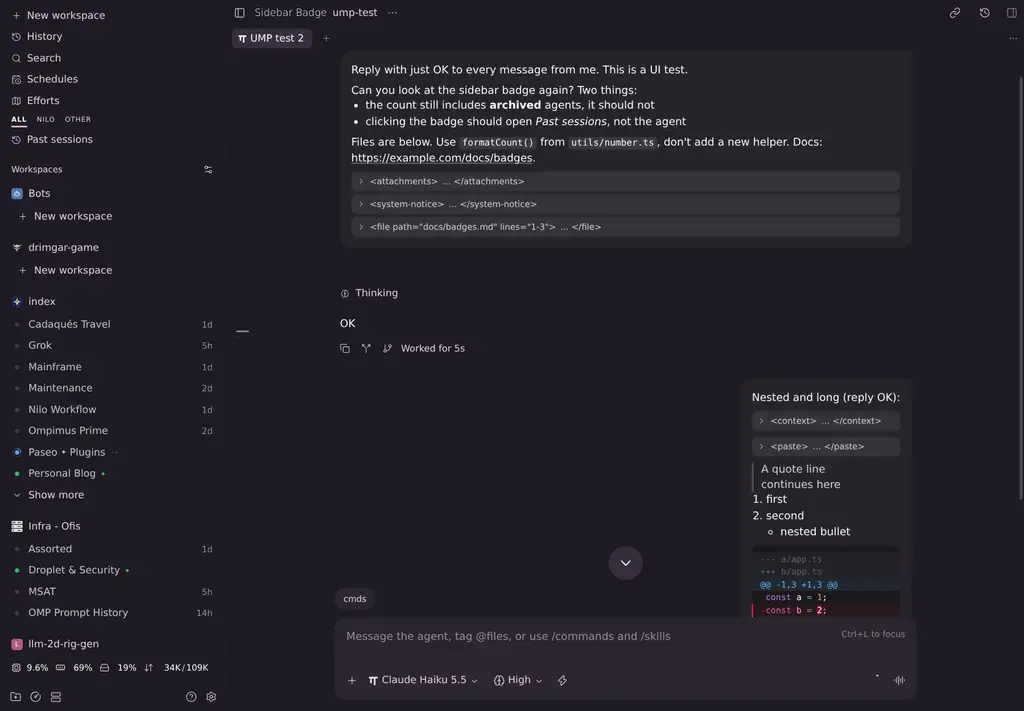
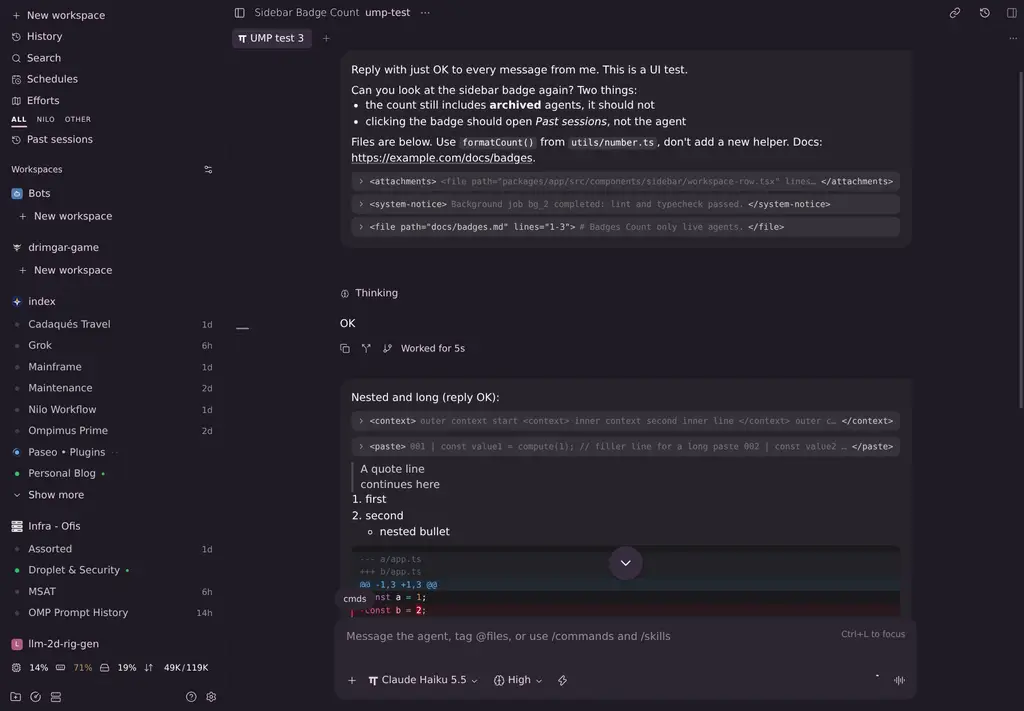
user-message-polish: one-line muted content preview between the folded tags
Folded rows read '› <tag attrs> first content… </tag>'. Tags keep their
full text first; the preview takes the room left and is cut with an
ellipsis. Rows now carry data-pmono, so Paseo's app font no longer
replaces their monospace.

diff --git a/paseo-plugins/user-message-polish/client/web.ts b/paseo-plugins/user-message-polish/client/web.ts
@@ -208,10 +208,11 @@ function renderFold(fold: Extract<Segment, { kind: "fold" }>, startOpen: boolean
   const path = document.createElementNS("http://www.w3.org/2000/svg", "path");
   path.setAttribute("d", CHEVRON);
   chevron.append(path);
-  const head = el("div", { class: "ump-head", role: "button", tabindex: "0", "data-paseo-markdown-ignore": "true" }, [
+  const head = el("div", { class: "ump-head", role: "button", tabindex: "0", "data-paseo-markdown-ignore": "true", "data-pmono": "" }, [
     chevron,
     el("span", { class: "ump-open" }, [fold.open]),
-    el("span", { class: "ump-shut" }, [`… ${fold.close}`]),
+    el("span", { class: "ump-peek" }, [fold.body.replace(/\s+/g, " ").trim().slice(0, 300)]),
+    el("span", { class: "ump-shut" }, [fold.close]),
   ]);
   head.title = fold.open;
   const box = el("div", { class: "ump-fold" }, [head]);
@@ -219,7 +220,7 @@ function renderFold(fold: Extract<Segment, { kind: "fold" }>, startOpen: boolean
     box.toggleAttribute("data-open", open);
     head.setAttribute("aria-expanded", String(open));
     if (open && box.childNodes.length === 1) {
-      const foot = el("div", { class: "ump-head ump-foot", "data-paseo-markdown-ignore": "true" }, [fold.close]);
+      const foot = el("div", { class: "ump-head ump-foot", "data-paseo-markdown-ignore": "true", "data-pmono": "" }, [fold.close]);
       foot.addEventListener("click", toggle);
       box.append(el("div", { class: "ump-body", "data-pmono": "" }, [fold.body]), foot);
     }
@@ -265,12 +266,17 @@ const CSS = `
 .ump-head:focus-visible { outline: 1px solid ${MIX(45)}; outline-offset: -1px; border-radius: 8px; }
 .ump-chev { width: 12px; height: 12px; flex: none; fill: none; stroke: ${MIX(52)}; stroke-width: 2; stroke-linecap: round; stroke-linejoin: round; transition: transform 120ms ease; }
 .ump-fold[data-open] .ump-chev { transform: rotate(90deg); stroke: currentColor; }
-/* One clamped line instead of nowrap: a long opening tag still sizes a wide bubble, but can't
-   force the bubble wider than a narrow window (nowrap text can't shrink below its full width). */
-.ump-open { min-width: 0; display: -webkit-box; -webkit-box-orient: vertical; -webkit-line-clamp: 1; overflow: hidden; white-space: normal; overflow-wrap: anywhere; }
+/* One clamped line instead of nowrap: long text still sizes a wide bubble, but can't force the
+   bubble wider than a narrow window (nowrap text can't shrink below its full width). The clamp
+   draws the ellipsis; break-all fills the line to its edge, so no gap opens before the next part. */
+.ump-open, .ump-peek { min-width: 0; display: -webkit-box; -webkit-box-orient: vertical; -webkit-line-clamp: 1; overflow: hidden; white-space: normal; word-break: break-all; }
 .ump-open, .ump-shut { color: ${MIX(78)}; }
+/* The tags keep their full text first; only a very long opening tag gets cut. The preview takes
+   what is left and the closing tag follows it directly. */
+.ump-open { flex: none; max-width: 70%; }
+.ump-peek { flex: 0 1 auto; color: ${MIX(32)}; }
 .ump-shut { flex: none; }
-.ump-fold[data-open] .ump-shut { display: none; }
+.ump-fold[data-open] .ump-peek, .ump-fold[data-open] .ump-shut { display: none; }
 .ump-fold[data-open] .ump-open, .ump-foot { color: ${MIX(52)}; }
 .ump-foot { padding-left: 26px; }
 /* width 0 + min-width 100%: opening never widens the bubble; the body wraps to the header's width. */

diff --git a/paseo-plugins/user-message-polish/OVERVIEW.md b/paseo-plugins/user-message-polish/OVERVIEW.md
@@ -2,14 +2,16 @@ Makes your own sent messages nicer in the Paseo web and desktop apps: pasted tag
 one-line fold rows, and Markdown renders. The phone apps are unchanged.
 
 **Fold rows.** A block such as `<attachments>…</attachments>`, `<summary>`, `<context>` or
-`<paste>` becomes one 28 px monospace row that shows the tags as written, attributes included:
-`› <file path="docs/badges.md"> … </file>`. Click it (or Enter/Space) to open it in place: the row
-stays where it is as the header and shows only the opening tag, its text goes a step quieter, the
-chevron turns and goes full strength, the content continues below in the same rounded shape at
-half the tint (raw text, at most 320 px tall, scrolls inside, long lines wrap), and a footer row
-with the closing tag ends the shape; clicking the footer folds it too. Stefan picked style B,
-opened as "B1", on `http://axalon:8080/pages/user-message-polish-mocks/`, then asked for literal
-tags instead of a tag name, hint and line count.
+`<paste>` becomes one 28 px monospace row that shows the tags as written, attributes included,
+with the content squeezed onto one very muted line between them and cut with an ellipsis:
+`› <file path="docs/badges.md"> # Badges Count only live a… </file>`. The tags sit left and keep
+their full text first; the preview takes what room is left. Click it (or Enter/Space) to open it
+in place: the row stays where it is as the header and shows only the opening tag, its text goes a
+step quieter, the chevron turns and goes full strength, the content continues below in the same
+rounded shape at half the tint (raw text, at most 320 px tall, scrolls inside, long lines wrap),
+and a footer row with the closing tag ends the shape; clicking the footer folds it too. Stefan
+picked style B, opened as "B1", on `http://axalon:8080/pages/user-message-polish-mocks/`, then
+asked for literal tags with a one-line preview instead of a tag name, hint and line count.
 
 - What folds: the opening tag starts a line, a matching closing tag ends a later line (or the
   same line), and the content has 2+ lines. Same-name tags nested inside are part of one fold;
